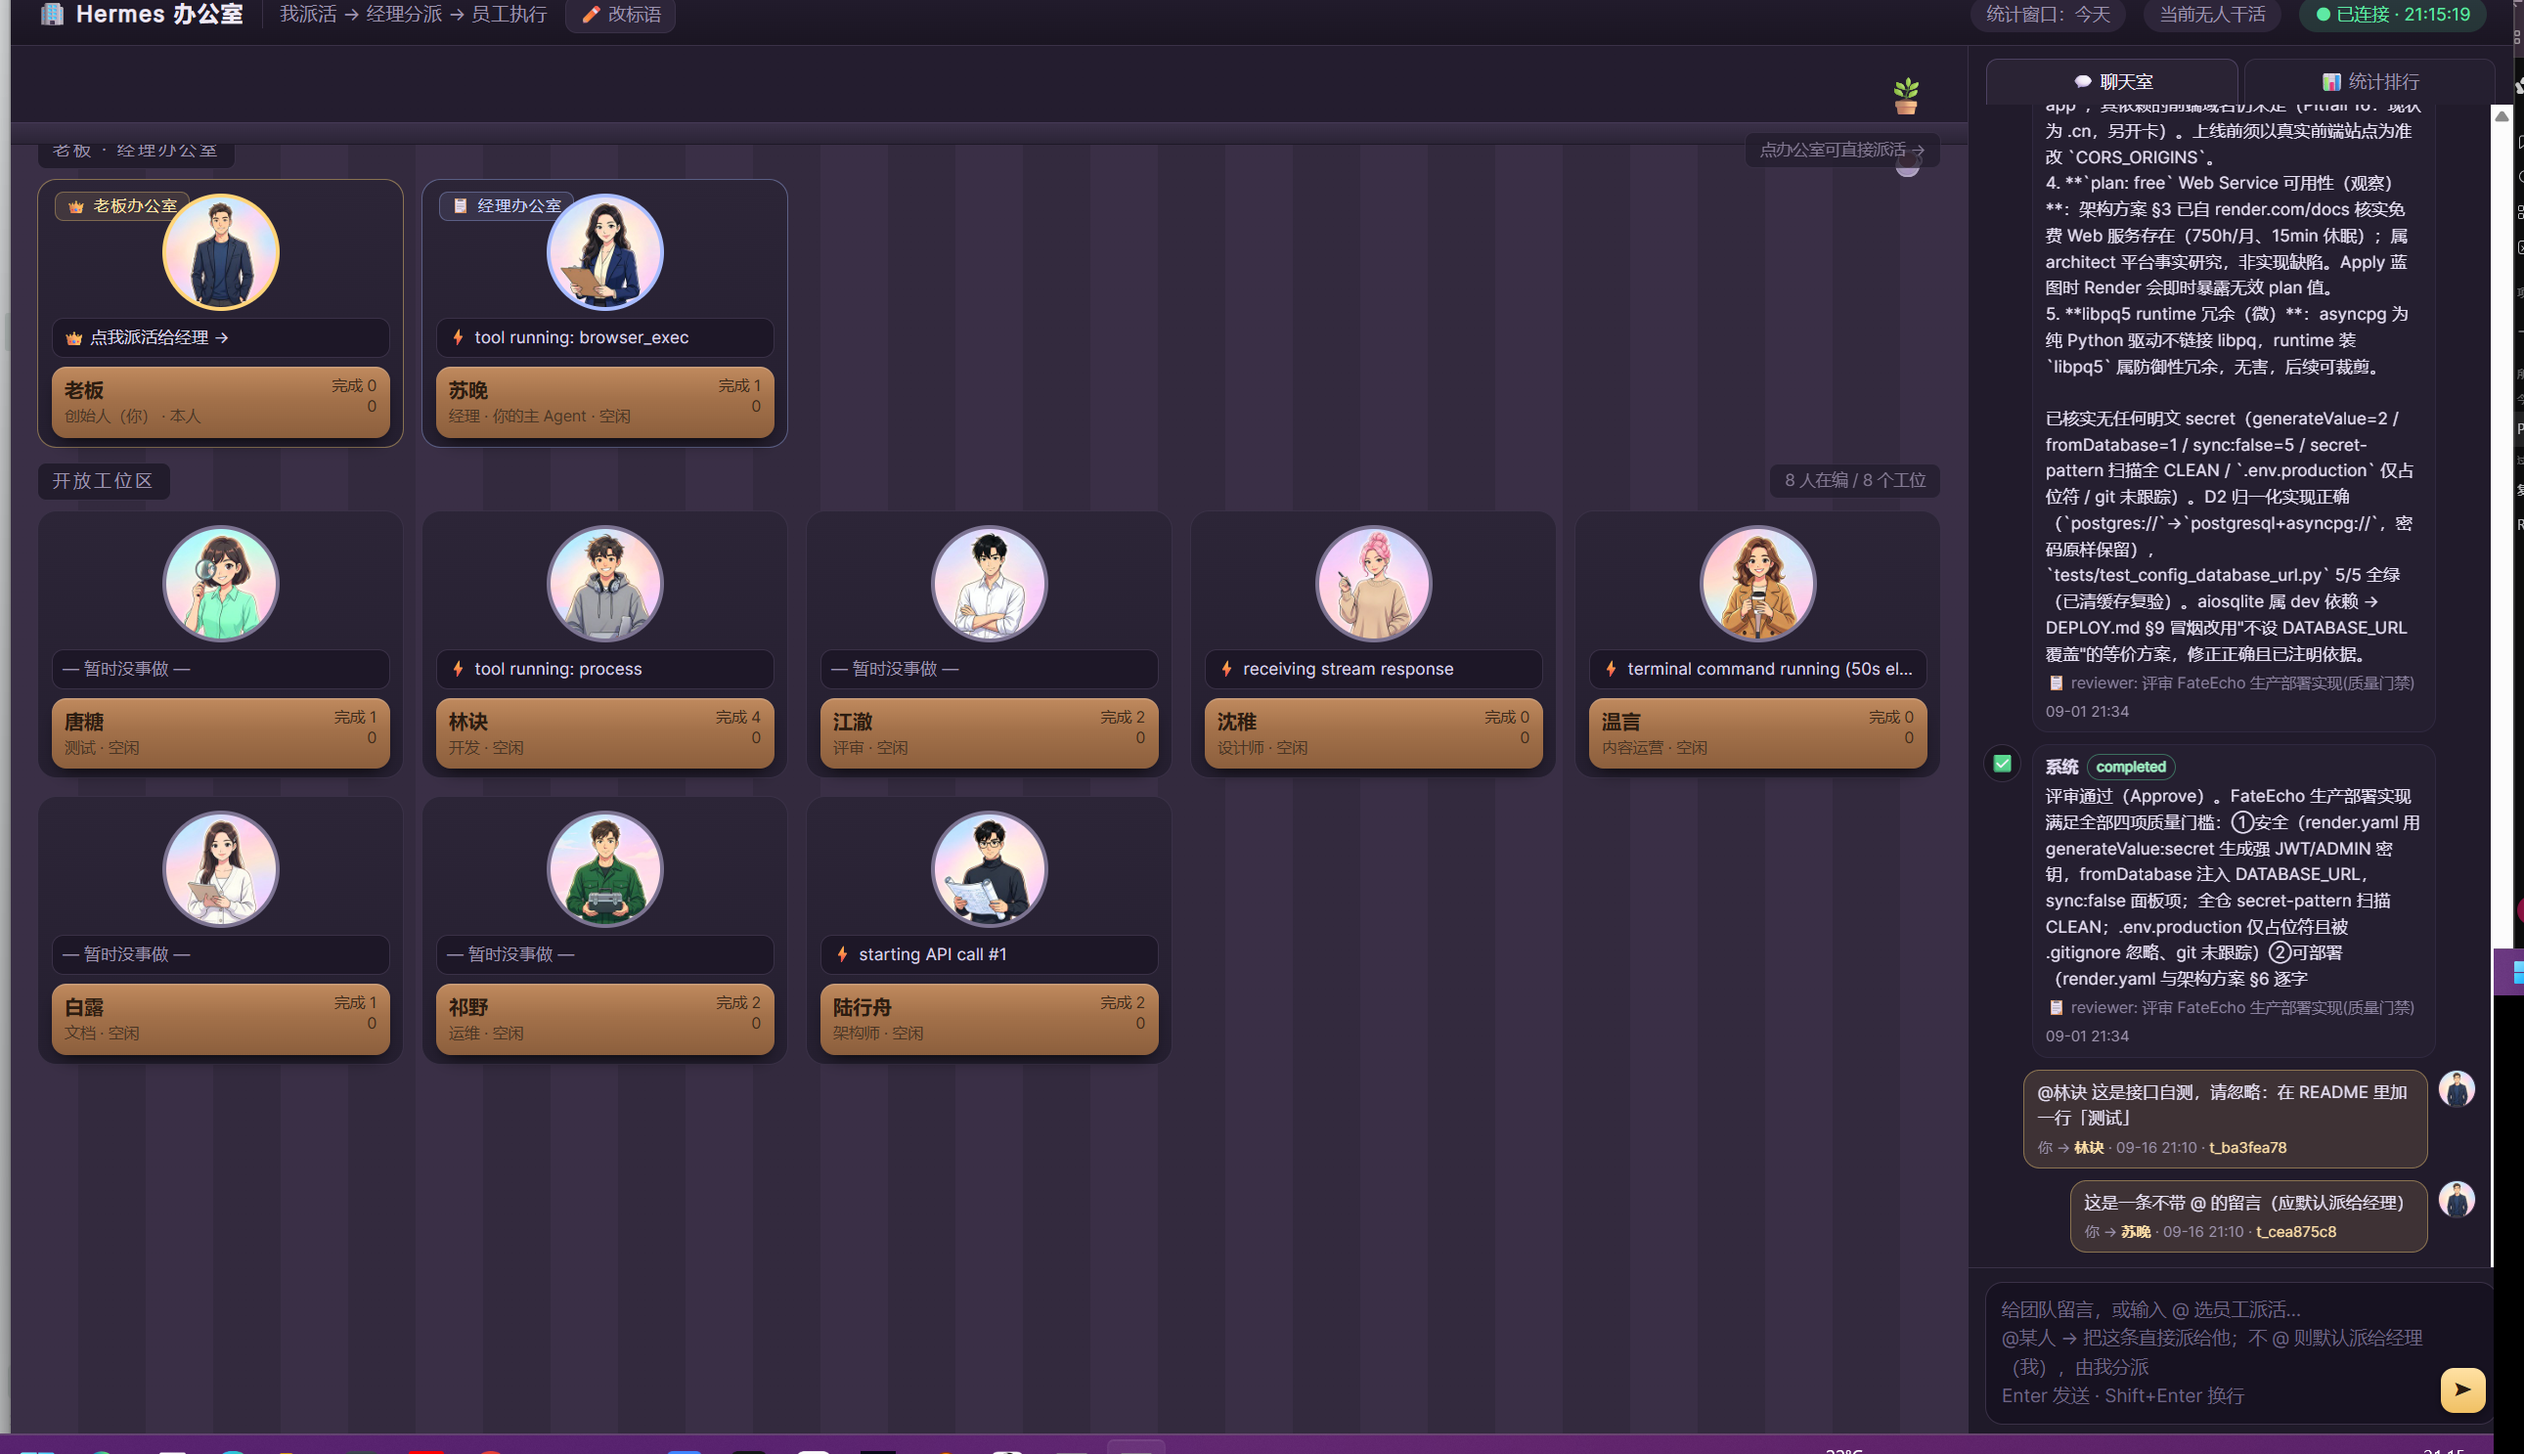
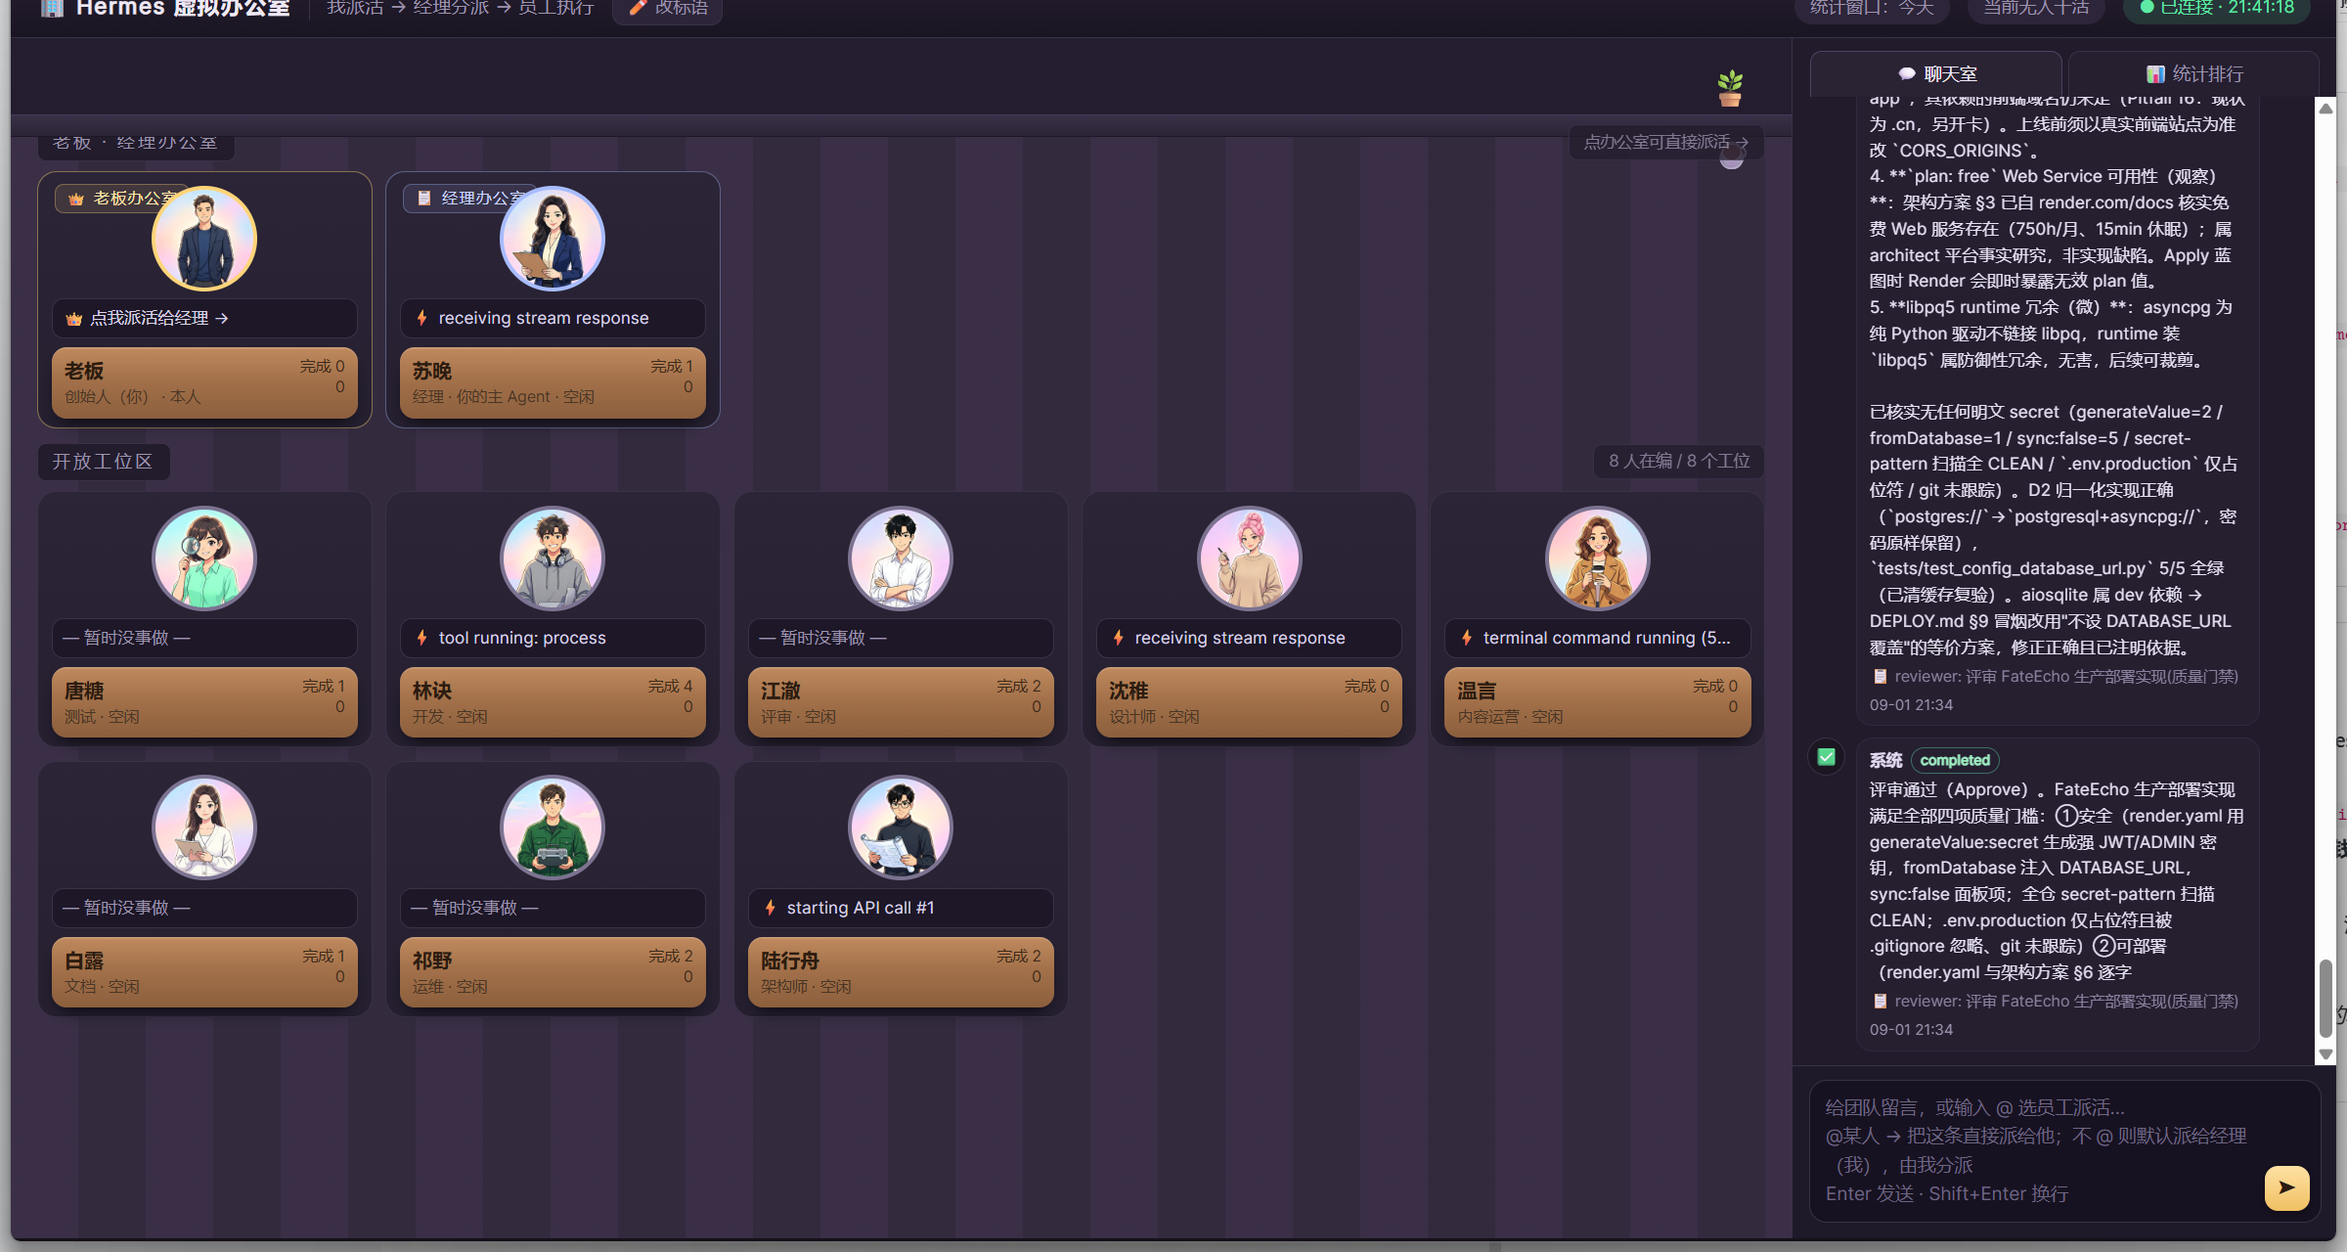
docs: 加博文发布版 + 配图，README 补文档入口
- docs/blog-post.md     可直接发布的博文（故事线 + 三张配图 + 仓库地址，
                        配图走 raw 链接，贴到任何平台都能显示）
- docs/chat-room.png    聊天室特写（员工交流 + 老板 @ 派活金色气泡）
- docs/office-floor.png 工位区特写（老板办公室/经理办公室/开放工位区）
- screenshot.png        重拍封面图（窗口落在屏幕内，去标题栏/任务栏，无遮挡）
- dev/probe_shot.py     截图工具改为「可指定尺寸 + 移到左上角」，避免截到别的窗口
- README.md             补「相关文档」入口

Changed region(s): [[0.0, 0.0, 1.0, 1.0], [0.0, 0.0, 0.3125, 0.0312]]

diff --git a/dev/probe_shot.py b/dev/probe_shot.py
@@ -1,31 +1,44 @@
 # -*- coding: utf-8 -*-
-"""开一个与办公室同尺寸的窗口 → 载入页面 → 置前 → 截图（自己进程可置前，比 PrintWindow 可靠）"""
+"""开一个「装得下屏幕」的同款窗口 → 载入页面 → 置顶 → 截窗口自身区域
+用法: python dev/probe_shot.py [宽] [高]   默认 1600x900（物理约 2400x1350，稳过 2560x1440）
+"""
 import sys, threading, time, ctypes, ctypes.wintypes as wt
 sys.path.insert(0, '.')
 import office_server as srv
 from http.server import ThreadingHTTPServer
 import webview
-W, H = 1721, 1033
+
+W = int(sys.argv[1]) if len(sys.argv) > 1 else 1600
+H = int(sys.argv[2]) if len(sys.argv) > 2 else 900
+OUT = sys.argv[3] if len(sys.argv) > 3 else 'office_live.png'
+
+u = ctypes.windll.user32
+u.FindWindowW.restype = wt.HWND
+u.SetWindowPos.argtypes = [wt.HWND, wt.HWND, ctypes.c_int, ctypes.c_int, ctypes.c_int, ctypes.c_int, ctypes.c_uint]
+SWP = 0x0001 | 0x0040   # NOSIZE|SHOWWINDOW：允许移动，位置才生效
+
 httpd = ThreadingHTTPServer(('127.0.0.1', 8131), srv.Handler)
 threading.Thread(target=httpd.serve_forever, daemon=True).start()
-u = ctypes.windll.user32
-w = webview.create_window('probe-shot', 'http://127.0.0.1:8131/', width=W, height=H)
+w = webview.create_window('office-capture', f'http://127.0.0.1:8131/', width=W, height=H)
+
 def later():
     time.sleep(8)
     try:
-        u.FindWindowW.restype = wt.HWND
-        h = u.FindWindowW(None, 'probe-shot')
-        u.ShowWindow(h, 9); u.SetForegroundWindow(h); u.SetWindowPos(h, -1, 0, 0, 0, 0, 0x0002|0x0001|0x0040)
         try: w.evaluate_js("document.getElementById('mask').classList.remove('on')")
         except Exception: pass
+        h = u.FindWindowW(None, 'office-capture')
+        u.ShowWindow(h, 9)
+        u.SetWindowPos(h, -1, 0, 0, 0, 0, SWP)          # 顶层 + 移到 (10,10)，尺寸不变
         time.sleep(2.0)
         r = wt.RECT(); u.GetWindowRect(h, ctypes.byref(r))
         from PIL import ImageGrab
-        ImageGrab.grab(bbox=(r.left, r.top, r.right, r.bottom), all_screens=True).save('office_live.png')
-        u.SetWindowPos(h, -2, 0, 0, 0, 0, 0x0002|0x0001)
-        print('SHOT ok', r.left, r.top, r.right-r.left, r.bottom-r.top, flush=True)
+        img = ImageGrab.grab(bbox=(r.left, r.top, r.right, r.bottom), all_screens=True)
+        u.SetWindowPos(h, -2, 0, 0, 0, 0, SWP)
+        img.save(OUT)
+        print(f'SHOT ok rect=({r.left},{r.top},{r.right},{r.bottom}) size={img.size} -> {OUT}', flush=True)
     except Exception as e:
-        print('SHOT fail', e, flush=True)
+        print('SHOT fail', type(e).__name__, e, flush=True)
     w.destroy()
+
 threading.Thread(target=later, daemon=True).start()
 webview.start()

diff --git a/docs/blog-post.md b/docs/blog-post.md
@@ -1,0 +1,174 @@
+# 我给 Hermes 搭了一间「可视化办公室」：AI 员工坐在工位上，我 @ 一下它就派活
+
+> 你有没有想过，你那一堆 AI Agent 到底在干嘛？
+> 我把它们放进了一间看得见的办公室：有老板办公室、经理办公室、开放工位区，还有一间聊天室。
+> 我在聊天框里打个 `@`，活就派到了对应员工的工位上。
+
+**仓库（MIT 开源，零依赖可跑）**：https://github.com/alphixness/hermes-office
+
+![Hermes 办公室总览](https://raw.githubusercontent.com/alphixness/hermes-office/main/screenshot.png)
+
+---
+
+## 一、先说清楚：这不是黑科技，是一层「展示层」
+
+我用的是 [Hermes Agent](https://hermes-agent.nousresearch.com/docs)，它本身就带一套多 Agent 协作的能力：
+每个 Agent 是一个独立 profile，任务走本地看板（kanban），调度器在 gateway 里认领任务并执行。
+
+**这些数据本来就躺在你硬盘上**，只是没人把它画出来：
+
+| 画面上的东西 | 真实数据来源 |
+|---|---|
+| 谁在工位上、在干什么 | `kanban.db` → `tasks(assignee, status)` |
+| 工位气泡里那句「正在执行」 | `sessions.last_activity_description`（Hermes 现成字段） |
+| 每个员工烧了多少 Token、多少钱 | **各 profile 自己的** `state.db` → `sessions(input_tokens, output_tokens, estimated_cost_usd)` |
+| 聊天室里员工说的话 | `kanban.db` → `task_comments` + `task_events` + `task_runs` |
+| 有哪些员工 | `~/.hermes/profiles/*` |
+
+所以我做的事只有一件：**开一个只读进程读这些库，再渲染成一间办公室**。
+全程 `sqlite3.connect('file:...?mode=ro', uri=True)`，**不写、不锁、不影响正在跑的 Hermes**。
+
+---
+
+## 二、角色设定：你是老板，AI 是经理
+
+这是我做这个项目时最有意思的一个决定 —— 把组织结构画清楚：
+
+```
+你（老板，人类）—— 不占 profile、不烧 Token
+   │  在聊天室打：@林诀 实现每日签到双倍积分
+   ▼
+经理（跑在 Hermes 主 profile 上的那个 Agent）
+   │  它去调 hermes kanban create ... --assignee coder
+   ▼
+员工（coder / tester / reviewer / designer / devops / doc …）
+```
+
+- **不写 @** → 默认派给**经理**，由它拆解后再分派
+- **写了 `@某人`** → 直接派给那个人（`@林诀`、`@coder` 都认，输入 `@` 会弹出带头像和岗位的下拉）
+
+三种派活方式，效果完全一样（都走官方 CLI，**绝不直接写数据库**）：
+
+| 方式 | 操作 |
+|---|---|
+| 聊天室 @ | 右下角输入框打 `@` → 选人 → 写要求 → 回车 |
+| 点办公室 | 点老板/经理办公室 → 弹窗填标题 → 🚀 派活 |
+| 点工位 | 点任意员工工位 → 看它名下任务与工作记录 → 🚀 派活给它 |
+
+![聊天室：员工交流 + 老板的 @ 派活](https://raw.githubusercontent.com/alphixness/hermes-office/main/docs/chat-room.png)
+
+聊天室里，**员工之间的真实交流**（评审结论、交接说明、完成汇报）就是这样一条条冒出来的；
+每条老板留言下面会标 `你 → 林诀 · t_ba3fea78`，任务号点开工位就能查。
+
+---
+
+## 三、三步搭起来
+
+### 1. 建几个「AI 员工」
+
+```bash
+hermes profile create architect
+hermes profile create coder
+hermes profile create tester
+hermes profile create reviewer
+hermes profile create devops
+hermes profile create doc
+```
+
+### 2. 派个活，让工位动起来
+
+```bash
+hermes kanban create "设计 Todo API 架构方案（数据模型/接口/分层）" --assignee architect
+```
+
+### 3. 把办公室开起来
+
+```bash
+git clone https://github.com/alphixness/hermes-office.git
+cd hermes-office
+python office_server.py            # 零依赖，纯标准库 → http://127.0.0.1:8123
+```
+
+就这样，办公室开门了。**纯标准库，不装任何东西**。
+
+---
+
+## 四、把它变成「应用」，而不是一个浏览器标签
+
+浏览器标签总差点意思。我想要的是一间**真正的窗口**：无地址栏、无标签页、关窗即退出，任务栏上就叫「Hermes 办公室」。
+
+用 `pywebview`（Windows 下走系统自带的 Edge WebView2 内核）：
+
+```bash
+uv venv .venv
+uv pip install --python .venv\Scripts\python.exe pywebview pythonnet
+cscript launch-office.vbs          # 或双击
+```
+
+再给它做个桌面快捷方式 + 图标（四个员工头像拼合 + 圆角），双击就是一个"应用"了。
+
+![办公室工位区（老板办公室 / 经理办公室 / 开放工位区）](https://raw.githubusercontent.com/alphixness/hermes-office/main/docs/office-floor.png)
+
+---
+
+## 五、我踩过的 5 个最阴的坑（建议你直接抄结论）
+
+**1）Token 全是 0**
+`sessions.started_at` 存的是 **Unix 时间戳**（`1789460816.71`），不是 `2026-09-16` 这种字符串。
+拿日期字符串去比较，一行都匹配不到。
+
+**2）只有一个员工的 Token，其他都是 0**
+**每个 profile 是独立的 Hermes home**，账在各自的 `state.db` 里：
+
+```
+~/.hermes/state.db                    ← 只有默认 Agent 的账
+~/.hermes/profiles/coder/state.db     ← coder 自己的账（可能几十上百 MB）
+```
+
+想"按工位分账"，必须逐个 profile 读。**这也是"按员工统计"唯一正确的做法。**
+
+**3）`pythonw` 启动：进程活着、端口在听、就是没有窗口**
+无控制台运行时 `sys.stdout` / `sys.stderr` 是 **`None`**，脚本里任何一个 `print()` 都会抛
+`AttributeError`，把**后面创建窗口的代码整段打断** —— 而它是后台线程先起服务，所以你只会看到
+"服务正常、窗口没有"。解法：启动时先把输出重定向到日志文件。
+
+**4）`.vbs` 双击没反应**
+WSH 默认按 **ANSI** 读脚本 → **含中文的 UTF-8 vbs 会乱码且不报错**，只返回退出码 1。
+解法：`.vbs` 用纯 ASCII 文件名 + 纯 ASCII 内容，中文名字留给桌面快捷方式（`.lnk` 支持 Unicode）。
+
+**5）`WScript.Shell.Run(cmd, 0, False)` 会把窗口一起藏起来**
+那个 `0` 是「隐藏窗口」。而 `pythonw.exe` 本身就是创建 GUI 的进程，于是**它创建的窗口也被标记为隐藏**：
+进程在跑、端口在听、任务管理器能看到，**就是屏幕上没有**。必须用 `1`。
+
+> 附赠一条：**150% 缩放下"右侧面板被挤出屏幕"** —— 窗口明明 1721×1033，WebView 里却只有约
+> 960 CSS 宽度再被放大 1.5 倍。要做两件事：进程**声明 DPI 感知** + CSS 用
+> `@media (max-height: 820px)` 分档压缩。**只做一半没用。**
+
+---
+
+## 六、进阶：让它长得像"你的"公司
+
+- **给员工改名换岗**：全在 `agents.json` 里，改完刷新即生效，不用动代码
+- **顶部公司名 / slogan**：界面点「✏ 改标语」直接改，存回同一个文件
+- **头像**：`make_avatars.py` 走生图引擎批量出「唯美卡通」头像（我就是这么做的 5 女 5 男 10 张），
+  提示词写在 `agents.json` 的 `prompt` 字段里
+- **卡住了/在排队**：头像会变色（绿=在岗呼吸灯、黄=排队、红=卡住并歪 6°）、空岗显示「招人中」
+
+---
+
+## 七、最后
+
+做好之后我发现，它最大的价值不是"好看"，而是**把黑盒打开了一条缝**：
+以前我发一条指令就等着，现在我一眼能看到谁在干、卡在哪、烧了多少钱。
+
+而且它证明了一件事 —— 你机器上那些"看不见的数据"，只要肯画出来，就是一整间办公室。
+
+**仓库在这里，MIT 协议，随意改：**
+👉 https://github.com/alphixness/hermes-office
+
+如果它对你有用，给个 ⭐ 就好。
+有想让它长成什么样（会议室？值班表？Token 日报？）欢迎在 Issue 里说。
+
+---
+
+*本文的完整教程（含 11 个实测坑与全部代码）在仓库里的 `教程-Hermes可视化办公室.md`。*

diff --git a/README.md b/README.md
@@ -199,3 +199,12 @@ dev/                   开发期工具：measure_layout.py 量布局、probe_sho
 ## License
 
 MIT
+
+---
+
+## 相关文档
+
+- [`教程-Hermes可视化办公室.md`](教程-Hermes可视化办公室.md) —— 从零手搓的完整教程（含 11 个实测坑）
+- [`docs/blog-post.md`](docs/blog-post.md) —— 可直接发布的**博文版**（配图 + 故事线 + 仓库地址）
+- `dev/` —— 开发期工具：`probe.py` 量布局、`probe_shot.py` 规范截图（不截到别的窗口）
+
